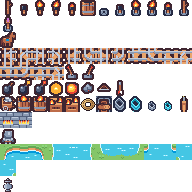
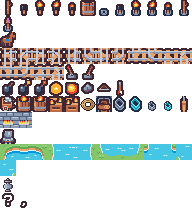
The font's comma and question mark, drawn on the game's own sheet in Tiny Ski's lettering (owner)
Tiny Ski has neither; tiles 144 and 145 of tile-world.png (ART.md row 12): white strokes 2 px wide,
outlined 2 px.  A font character can now come from another sheet (theme.json font.chars:
"?": "world:144"), in the game's text and the editor's widgets.  The ghost's draft lines get their
commas and question mark back.

diff --git a/tools/orbury_gen.py b/tools/orbury_gen.py
@@ -275,23 +275,23 @@ cliffs = [{"at": [20, 8], "size": [20, 14]}]
 # cellar, where he says where his good pick lies.  The lines are drafts, the owner's to rewrite.
 GHOST = ["ghost", 57, 50, 0]
 GHOST_TALK = {"at": [57, 50, 0], "name": "ghost",
-  "barks": [{"ghost": "NO REST HERE.", "when": "!haunting"}, {"ghost": "SO COLD THIS GROUND.", "when": "!haunting"},
-            {"ghost": "MY URN... YOU LEFT MY URN.", "when": "haunting"}, {"ghost": "BRING IT HOME OR TO HER.", "when": "haunting"}],
+  "barks": [{"ghost": "NO REST HERE.", "when": "!haunting"}, {"ghost": "SO COLD, THIS GROUND.", "when": "!haunting"},
+            {"ghost": "MY URN... YOU LEFT MY URN.", "when": "haunting"}, {"ghost": "BRING IT HOME, OR TO HER.", "when": "haunting"}],
   "gifts": {"urn": "back"},
   "facts": {"pick_told": "rested", "ghost_at_rest": "rest"},
   "lines": [
     "THIS GRAVE GIVES ME NO REST.",
     {"hero": "WHO ARE YOU?"},
     {"ghost": "I DUG THE FIRST SHAFT. THE LAKE TOOK ME."},
-    {"ghost": "MY LOVE SIBIL LIVED IN THE TOWN."},
-    {"ghost": "WHICH HOUSE... TIME TOOK THAT FROM ME."},
+    {"ghost": "MY LOVE, SIBIL, LIVED IN THE TOWN."},
+    {"ghost": "WHICH HOUSE? TIME TOOK THAT FROM ME."},
     {"id": "ask", "ghost": "TAKE MY URN TO THE CELLARS. IN HERS I WILL KNOW.", "give": "urn", "sets": "urn_given", "then": "seek", "end": True},
     {"id": "seek", "ghost": "IN HER CELLAR I WILL KNOW. SEEK ON.", "end": True},
-    {"id": "back", "ghost": "BACK WITH ME A WHILE. ASK AND IT IS YOURS AGAIN.", "take": True, "then": "ask", "end": True},
+    {"id": "back", "ghost": "BACK WITH ME A WHILE. ASK, AND IT IS YOURS AGAIN.", "take": True, "then": "ask", "end": True},
     {"id": "rest", "ghost": "SIBIL... THIS WAS HER HOUSE.", "take": True},
     {"ghost": "HERE I CAN REST. THANK YOU."},
-    {"ghost": "MY GOOD PICK: I LEFT IT IN THE MINE.", "sets": "pick_told", "end": True},
-    {"id": "rested", "ghost": "AT REST AT LAST.", "end": True}]}
+    {"ghost": "MY GOOD PICK, I LEFT IT IN THE MINE.", "sets": "pick_told", "end": True},
+    {"id": "rested", "ghost": "AT REST, AT LAST.", "end": True}]}
 # Where the hero sleeps until Thornfield's barn is built (@ST-Farm, @ST-Hero): a bed at the dock,
 # where he arrives.
 items.append({"at": [24, 60], "z": 0, "stack": ["bed"]})

diff --git a/ART.md b/ART.md
@@ -35,7 +35,9 @@ as more monsters; the horse is its first addition beyond light.  The rules its t
 | 7 | crafting | 84, 85: the lit forge |
 | 8 | the hero | 96: its back |
 | 9–10 | water | 108–120: deep water's shore |
-| 11– | later additions (monsters, …) | 132: the founder's urn |
+| 11 | later additions (monsters, …) | 132: the founder's urn |
+| 12 | lettering | 144: a question mark, 145: a comma — the characters Tiny Ski's font lacks, in its style (2 px white strokes, a 2 px outline) |
+| 13– | later additions | |
 
 ### The tiles
 
@@ -62,6 +64,8 @@ as more monsters; the horse is its first addition beyond light.  The rules its t
 | 66 | bow | drawn shooting up, as everything carried is drawn pointing up: lying across, its curve up, the string below, the grip in the middle (held by its grip, 7, 6) |
 | 108–120 | deep water's shore | Tiny Battle's shore (battle 18–20, 36–38, 54–56, 90–93) in `theme.json`'s PIECES order (nw n ne w c e sw s se, the inner corners nw ne sw se), the water a step darker from the palette's own blues (75e3ff → 44c6e4, 9febff → 75e3ff, 46c4e4 → 0099db), the grass and the foam as they are (owner, 2026-11-08: deep water a slightly darker blue; the shallows keep Tiny Battle's own) |
 | 132 | the founder's urn | a lidded urn of grey pewter, closed over his ashes (STORY.md @ST-Urn); also the urn afloat on deep water |
+| 144 | question mark | the font's (theme.json `font.chars`: `"?": "world:144"`), drawn in Tiny Ski's lettering: white strokes 2 px wide, outlined 2 px in `o` |
+| 145 | comma | the same; its tail drops below the letters' last row |
 | 96 | the hero's back | Kenney's knight (dungeon:97) seen from behind (owner, 2026-11-07): the visor and face painted over as the back of the helmet, a ridge down its middle, the neck guard in shadow; drawn when the hero faces north |
 | 67 | arrow | flying up: an iron head, a wooden shaft, red and white fletching; turned the way it flies |
 | 72 | loaded cart | Kenney's cart (town:57) with the rock (farm:89) heaped in it, reduced: a cart full of rubble |

diff --git a/TALKS.md b/TALKS.md
@@ -30,14 +30,13 @@ yet.  The lines themselves are the owner's to write.
 
 **The founder's ghost, drafted** (2026-11-10, `tools/orbury_gen.py`'s `GHOST_TALK`; drafts for the
 owner to rewrite, @ST-Urn): THIS GRAVE GIVES ME NO REST. / WHO ARE YOU? / I DUG THE FIRST SHAFT.
-THE LAKE TOOK ME. / MY LOVE SIBIL LIVED IN THE TOWN. / WHICH HOUSE... TIME TOOK THAT FROM ME. /
+THE LAKE TOOK ME. / MY LOVE, SIBIL, LIVED IN THE TOWN. / WHICH HOUSE? TIME TOOK THAT FROM ME. /
 TAKE MY URN TO THE CELLARS. IN HERS I WILL KNOW. (gives the urn) — then IN HER CELLAR I WILL KNOW.
-SEEK ON.  Brought the urn back: BACK WITH ME A WHILE. ASK AND IT IS YOURS AGAIN.  At rest in
+SEEK ON.  Brought the urn back: BACK WITH ME A WHILE. ASK, AND IT IS YOURS AGAIN.  At rest in
 Sibil's cellar: SIBIL... THIS WAS HER HOUSE. (takes the urn) / HERE I CAN REST. THANK YOU. / MY GOOD
-PICK: I LEFT IT IN THE MINE. (`pick_told`) — then AT REST AT LAST.  Barks: NO REST HERE. / SO
-COLD THIS GROUND.  Haunting the hero by night, the urn left behind: MY URN... YOU LEFT MY URN. /
-BRING IT HOME OR TO HER.  Where in the mine the pick lies waits for the mine's layout.  No commas:
-the font (Tiny Ski's) has none, nor a question mark.
+PICK, I LEFT IT IN THE MINE. (`pick_told`) — then AT REST, AT LAST.  Barks: NO REST HERE. / SO
+COLD, THIS GROUND.  Haunting the hero by night, the urn left behind: MY URN... YOU LEFT MY URN. /
+BRING IT HOME, OR TO HER.  Where in the mine the pick lies waits for the mine's layout.
 
 ## What the whole village argues over
 
